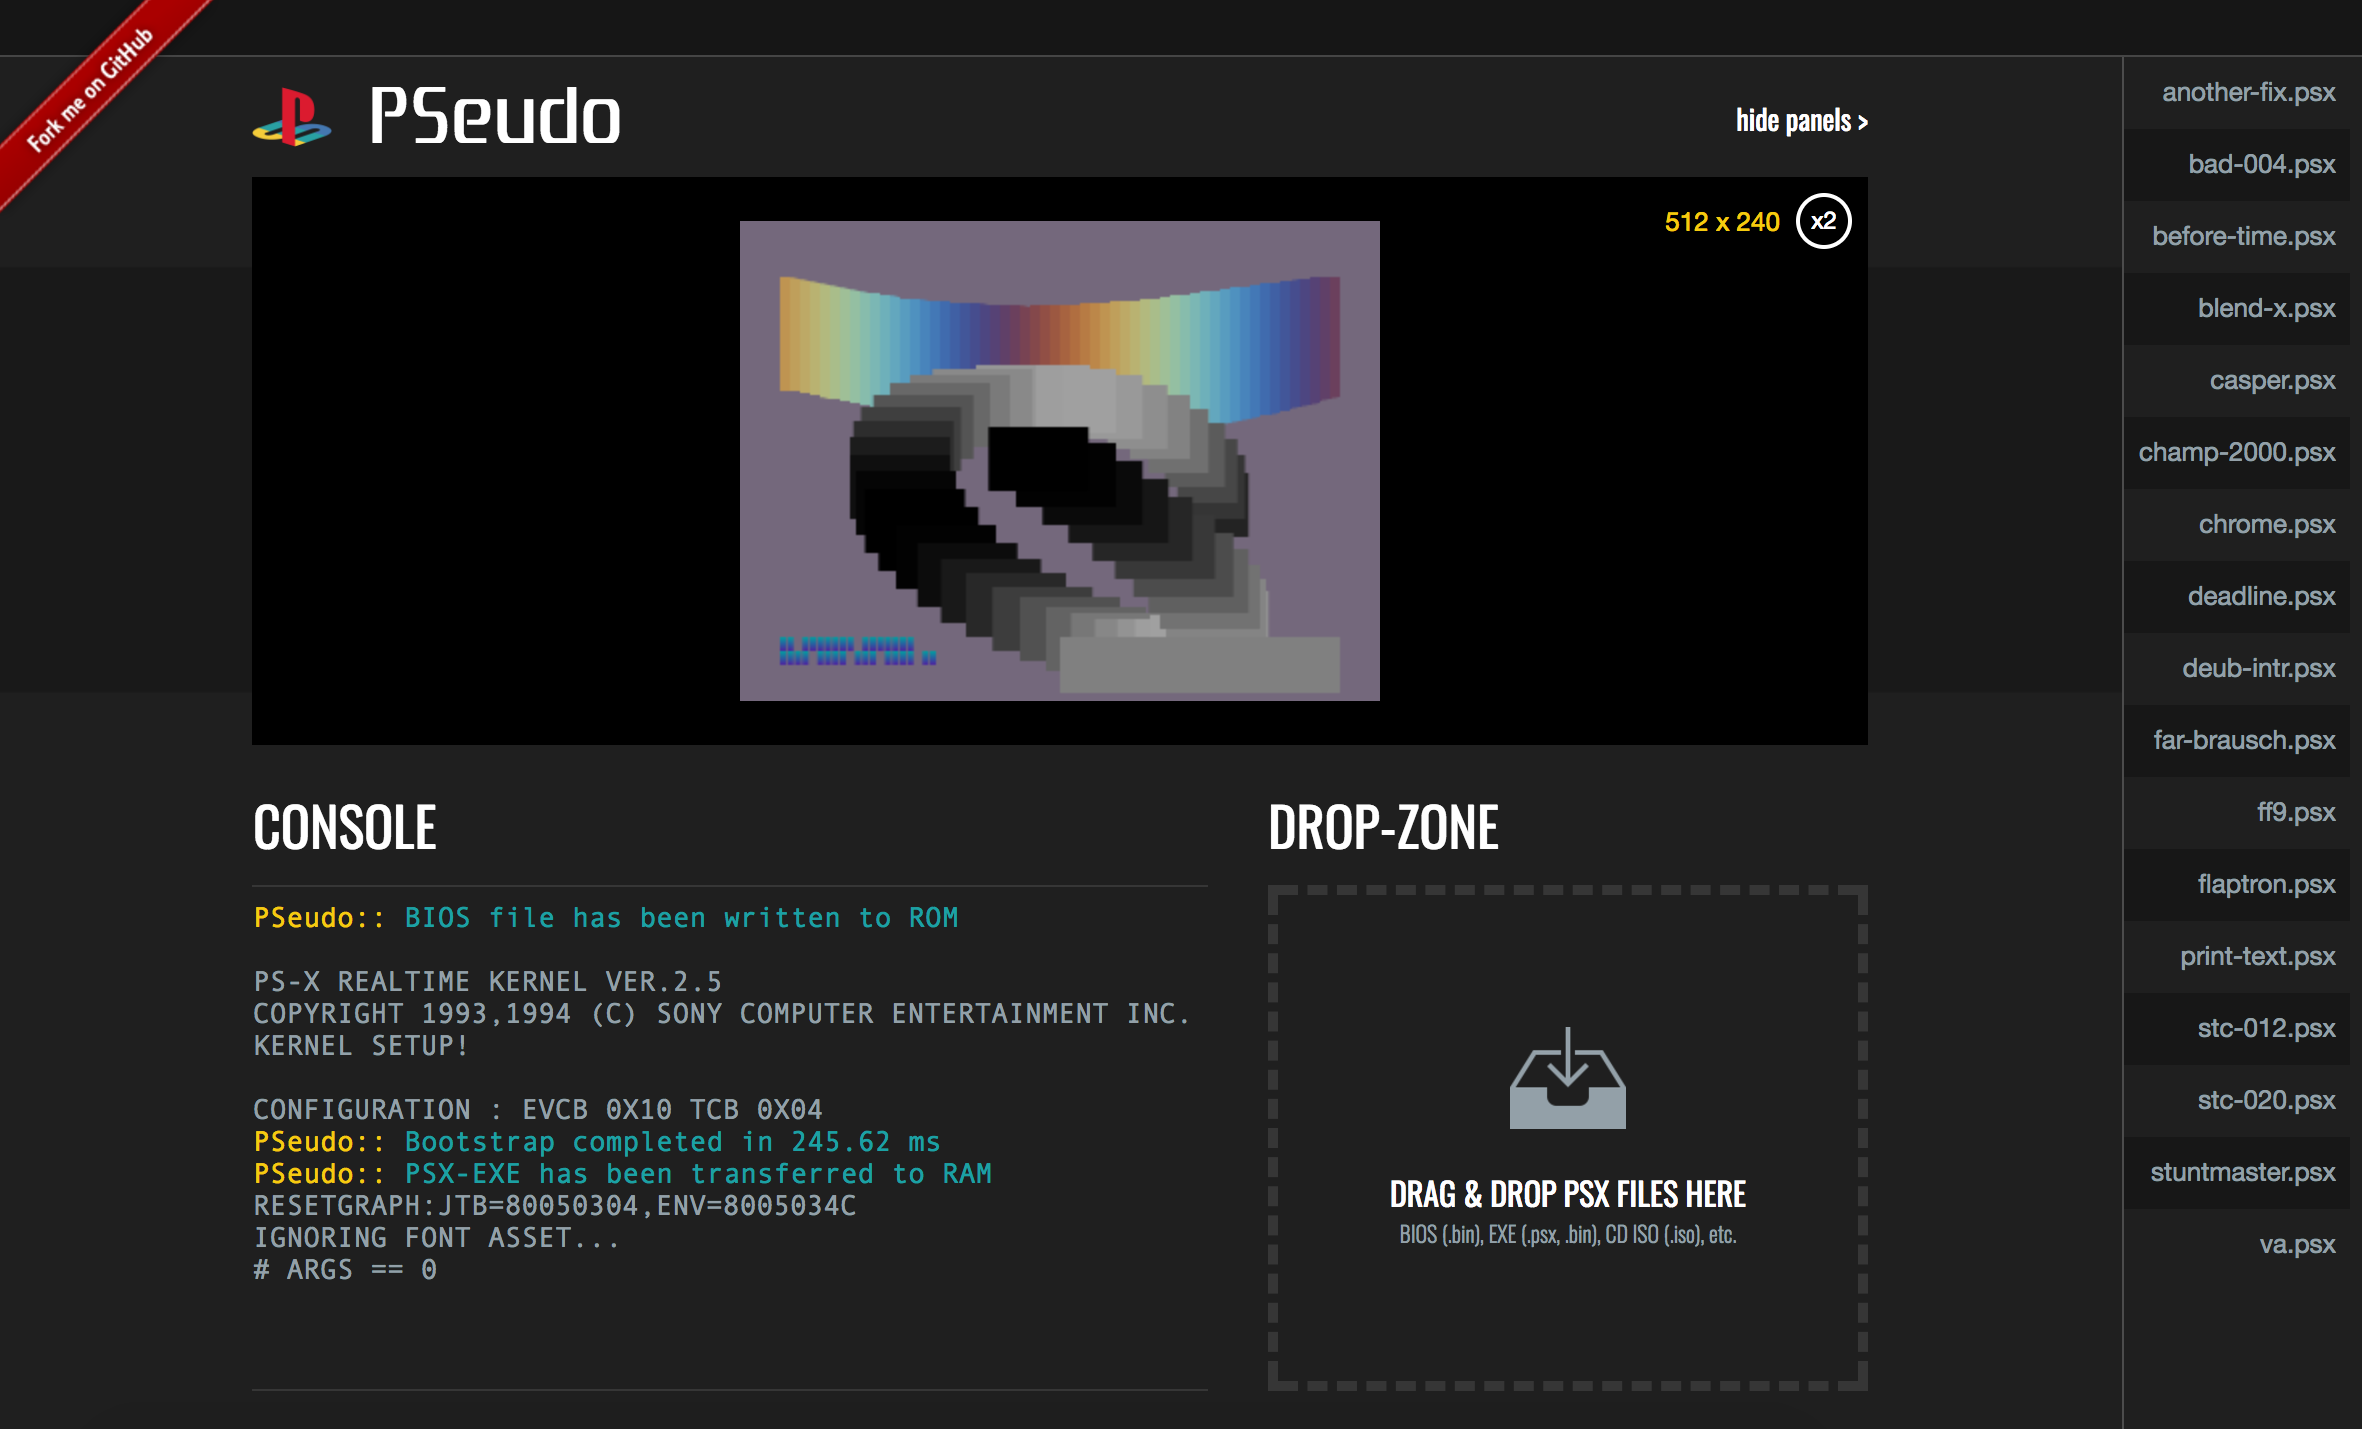
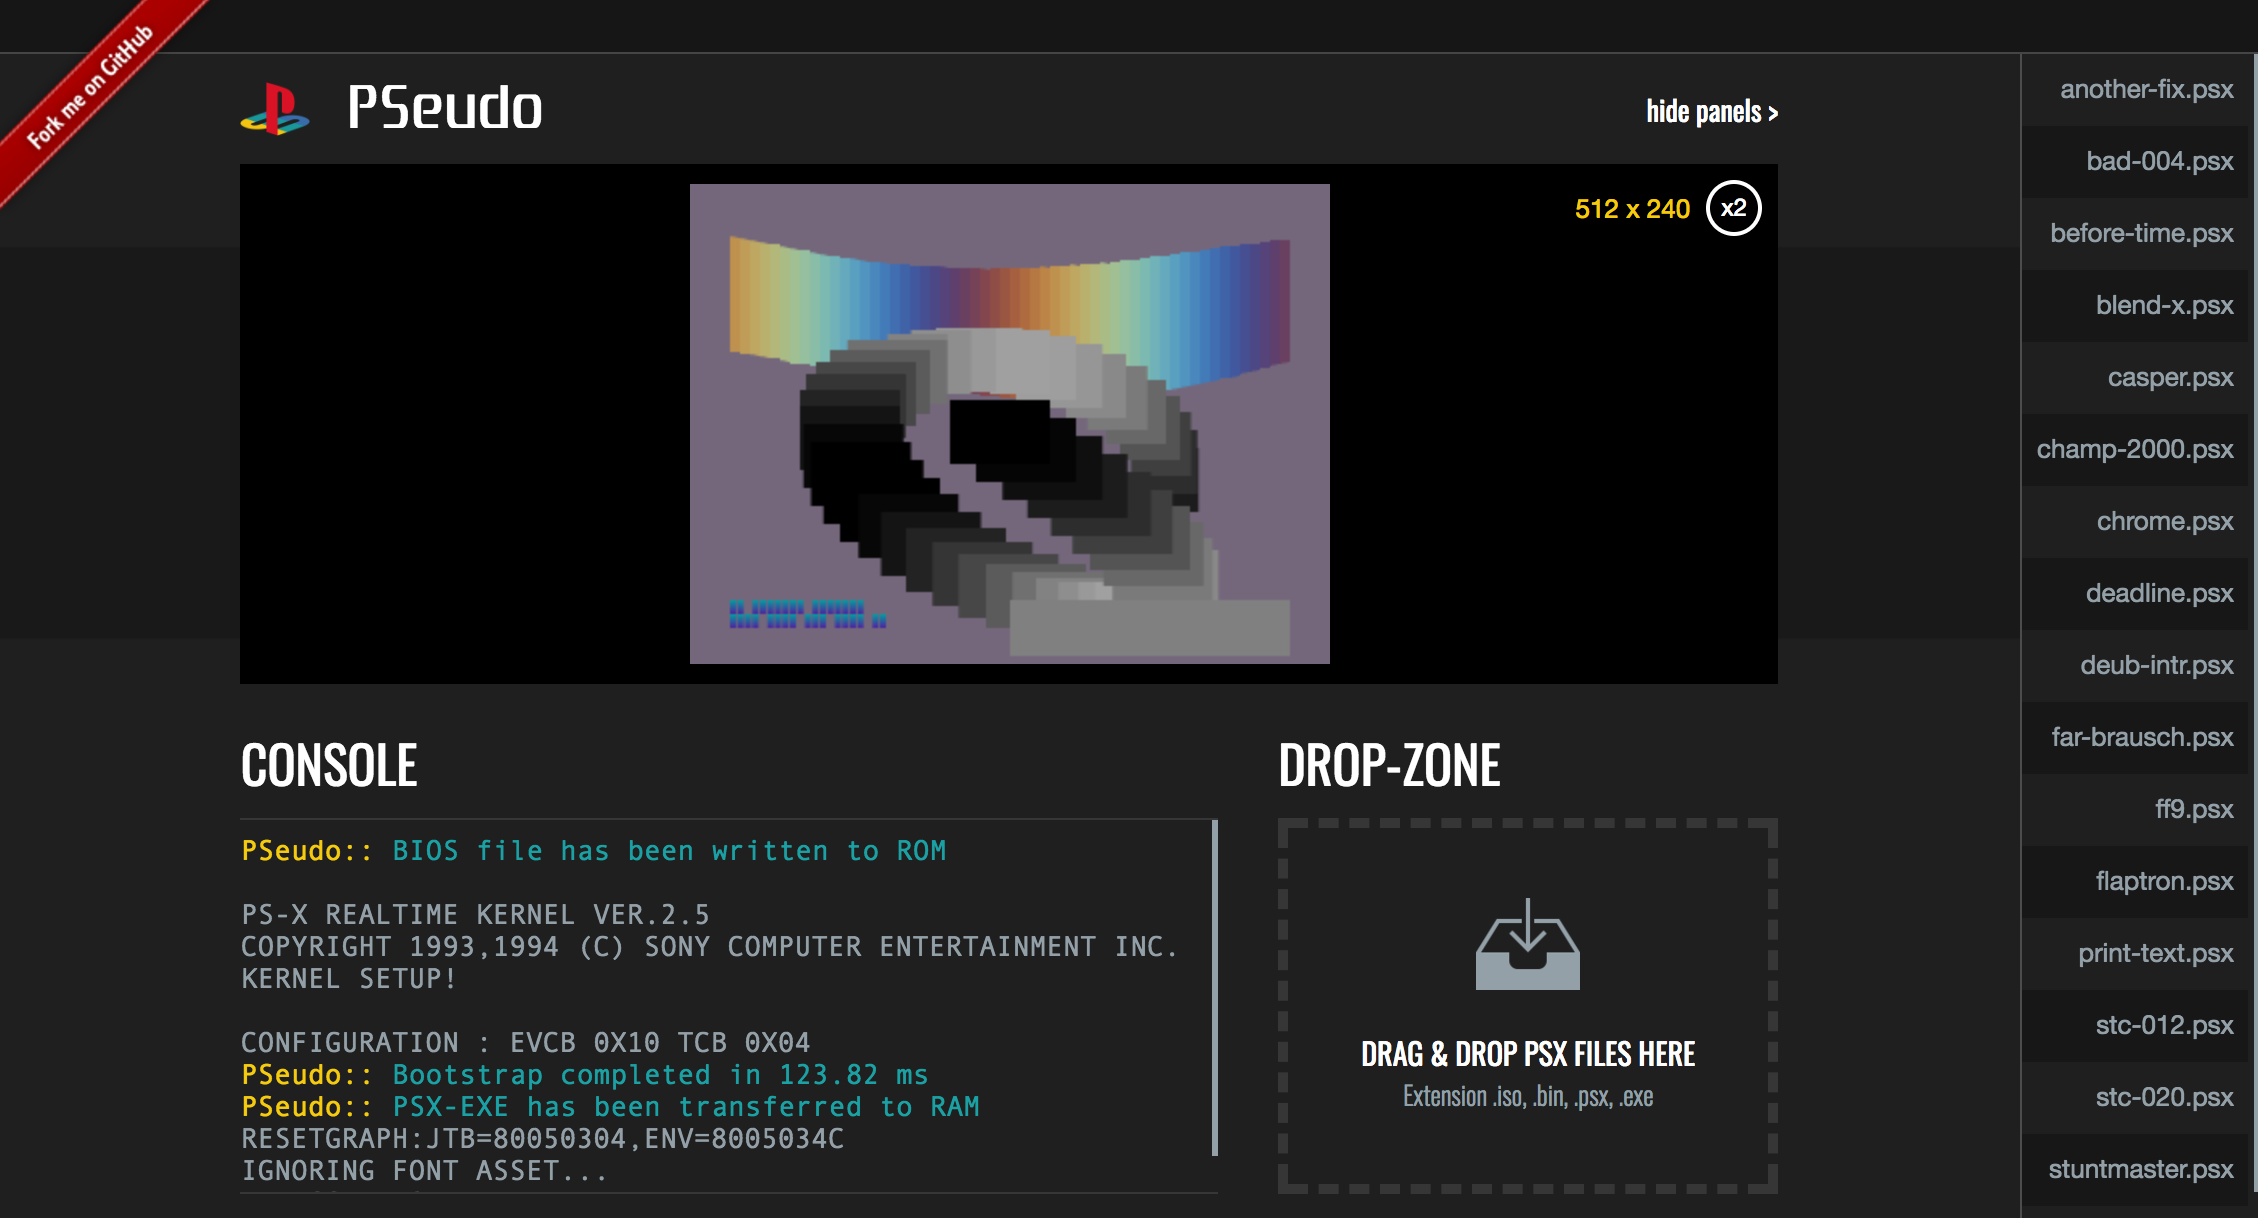
Updated screenshot, and other HTML.

Changed region(s): [[0.0, 0.0, 1.0, 0.9672], [0.589, 0.7176, 0.744, 0.9048]]

diff --git a/index.html b/index.html
@@ -76,13 +76,13 @@
     /* Header */
     #bar-header {
       DISPLAY: flex;
-      min-HEIGHT: 60px;
+      min-HEIGHT: 55px;
     }
     #bar-header > .spacer > IMG {
-      width: 40px;
+      width: 35px;
     }
     #brand {
-      font: normal 42px 'PS', sans-serif;
+      font: normal 32px 'PS', sans-serif;
       letter-SPACING: 1px;
       MARGIN-left: 20px;
     }
@@ -134,11 +134,11 @@
     #bar-boxes {
       flex: 1;
       DISPLAY: flex;
-      MARGIN: 0 12% 30px 12%;
+      MARGIN: 0 12% 20px 12%;
     }
     .box-header {
-      font: normal 27px 'Oswald-400', sans-serif;
-      MARGIN-bottom: 10px;
+      font: normal 26px 'Oswald-400', sans-serif;
+      MARGIN-bottom: 8px;
     }
 
     /* Output */
@@ -170,7 +170,7 @@
     #box-dropzone {
       DISPLAY: flex;
       flex-direction: column;
-      min-width: 300px;
+      min-width: 250px;
       PADDING-left: 30px;
     }
     #dropzone {
@@ -182,16 +182,16 @@
       border: 5px dashed RGBA(255, 255, 255, .1);
     }
     #dropzone > IMG {
-      width: 58px;
+      width: 52px;
       MARGIN-bottom: 20px;
     }
     #dropzone > div:nth-child(2) {
       color: #fff;
-      font: normal 16px 'Oswald-400', sans-serif;
+      font: normal 15px 'Oswald-400', sans-serif;
     }
     #dropzone > div:nth-child(3) {
       color: #93a0a8;
-      font: normal 11px 'Oswald-300', sans-serif;
+      font: normal 13px 'Oswald-300', sans-serif;
     }
 
     /* Homebrew */
@@ -266,7 +266,7 @@
             <div id="dropzone" ondrop="pseudo.CstrMain.fileDrop(event)" ONDRAGOVER="pseudo.CstrMain.dropPrevent(event)">
               <IMG src="res/drop.png"/>
               <div>DRAG & DROP PSX FILES HERE</div>
-              <div>BIOS (.bin), EXE (.psx, .bin), CD ISO (.iso), etc.</div>
+              <div>Extension .iso, .bin, .psx, .exe</div>
             </div>
           </div>
         </div>

diff --git a/dist/pseudo.js b/dist/pseudo.js
@@ -1200,14 +1200,14 @@ pseudo.CstrMain = (function() {
     }
 
     // Reset all emulator components
-    pseudo.CstrRender .reset();
-    pseudo.CstrGraphics     .reset();
-    pseudo.CstrMem    .reset();
+     pseudo.CstrRender.reset();
+         pseudo.CstrGraphics.reset();
+        pseudo.CstrMem.reset();
     pseudo.CstrCounters.reset();
-    pseudo.CstrBus    .reset();
-    pseudo.CstrSerial    .reset();
-    pseudo.CstrCop2   .reset();
-    pseudo.CstrMips    .reset();
+        pseudo.CstrBus.reset();
+        pseudo.CstrSerial.reset();
+       pseudo.CstrCop2.reset();
+        pseudo.CstrMips.reset();
 
     return true;
   }
@@ -1498,7 +1498,7 @@ pseudo.CstrRender = (function() {
         ctx.viewport(0, 0, w, h);
       }
       else {
-        pseudo.CstrMain.error('Not a valid resolution');
+        console.info('Not a valid resolution');
       }
     },
 

diff --git a/src/pseudo.js b/src/pseudo.js
@@ -47,14 +47,14 @@ pseudo.CstrMain = (function() {
     }
 
     // Reset all emulator components
-    render .reset();
-    vs     .reset();
-    mem    .reset();
+     render.reset();
+         vs.reset();
+        mem.reset();
     rootcnt.reset();
-    bus    .reset();
-    sio    .reset();
-    cop2   .reset();
-    cpu    .reset();
+        bus.reset();
+        sio.reset();
+       cop2.reset();
+        cpu.reset();
 
     return true;
   }

diff --git a/src/render.js b/src/render.js
@@ -364,7 +364,7 @@ pseudo.CstrRender = (function() {
         ctx.viewport(0, 0, w, h);
       }
       else {
-        psx.error('Not a valid resolution');
+        console.info('Not a valid resolution');
       }
     },
 
